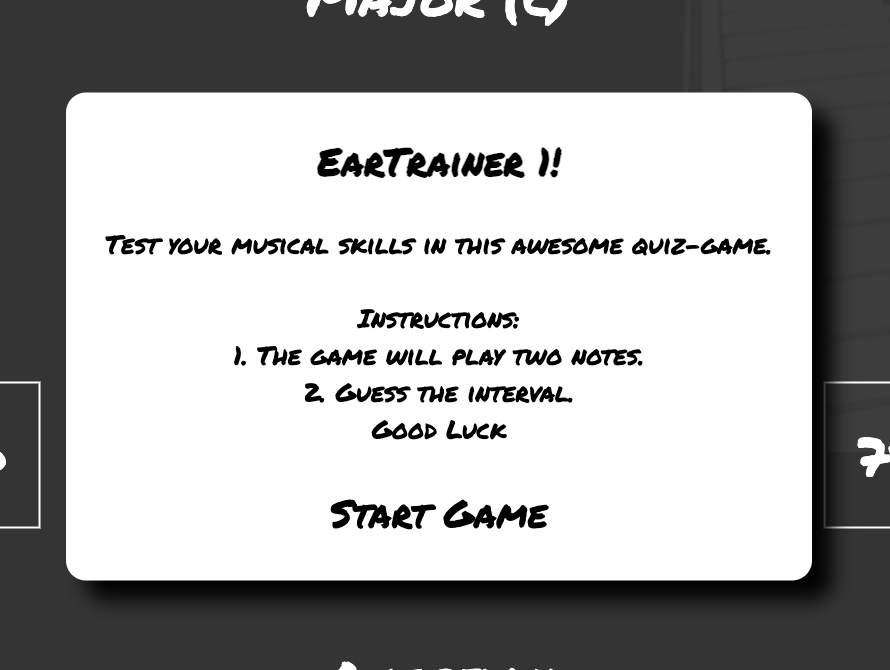
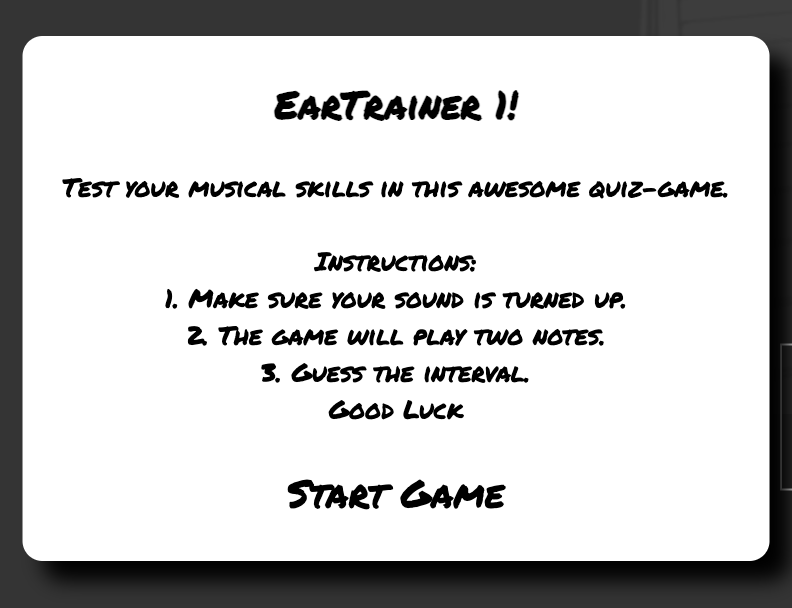
changed aria labels to aria description after readinig about usage and the w3c issued warnings

diff --git a/assets/js/script.js b/assets/js/script.js
@@ -56,8 +56,9 @@
      document.getElementById("modal-content").innerHTML = `<h2 aria-label="game name">EarTrainer 1!</h2><br>
       Test your musical skills in this awesome quiz-game.<br><br>
       Instructions:<br>
-      1. The game will play two notes.<br>
-      2. Guess the interval.<br>Good Luck<br><p>
+      1. Make sure your SOUND IS TURNED UP.<br>
+      2. The game will play two notes.<br>
+      3. Guess the interval.<br>Good Luck<br><p>
       <br><button aria-label="start game" id="start-game-button">Start Game</button>`;
      let start = document.getElementById("start-game-button");
      start.addEventListener("click", startGame);

diff --git a/assets/css/style.css b/assets/css/style.css
@@ -334,6 +334,11 @@ h2:hover {
   #game-canvas {
     max-width: 100%;
   }
+
+  #right-answers, #wrong-answers, #question-number{
+    font-size: 1rem;
+  }
+  
 }
 
 /* very Large Screens */

diff --git a/README.md b/README.md
@@ -2,6 +2,8 @@
 
 Ask any musician and they will tell you that hearing is the number one most important skill in a musicians, producers or singers toolbox. Without it you are doomed. That's why EarTrainer is your best friend and tutor. With this fun and simple quiz game your hearing will improve at a high pace giving you the skillset you need to pursuit your musical career.
 
+Oh, and it's also OK to play if you just want to play a fun game.
+
 Good luck!
 
 ![Responsive Mockup](assets/images/readmemedia/responsive.png)
@@ -16,19 +18,19 @@ Good luck!
 
 ## Features 
 
-- Welcome Modal
-- Main View
-- Anwer Feedback
-- Next Question
-- Score Summary
+- [Welcome Modal](#welcome-modal)
+- [Main View](#main-view)
+- [Anwer Feedback](#answer-feedback)
+- [Next Question](#next-question)
+- [Score Summary](#score-summary)
 
 ### Welcome modal
-The welcome modal provides the user with a greeting and instructions as well as a 'start game' button. By keeping the introduction short the player is quickly engaged in the game.
+The welcome modal provides the user with a greeting and instructions as well as a 'start game' button. By keeping the introduction positive and simple, the player is quickly launched into the game.
 
 ![Welcome](assets/images/readmemedia/welcome-modal.png)
 
-### main view
-When the 'Start Game' button is clicked the player will hear first one and then a second note and will be able to guess the interval by pressing one of the eight buttons convieniently placed within thumb-reach (if on a smartphone). On the top, just under the logo you can see the current scale as well as two notes who are animated so that one the first note is played, the left one is changing colors and when the second one is played, the right one will do the same.
+### Main view
+When the 'Start Game' button is clicked the player will first hear one and then a second note and will be prompted to guess the interval by pressing one of the eight buttons convieniently placed within thumb-reach (if on a smartphone). On the top, just under the logo you can see the current scale as well as two notes who are animated so that when the first note is played, the left one is changing colors and when the second one is played, the right one will do the same to indicate to the user that sound should be playing
 The number of correct and wrong answers as well as the current question number is also visible here.
 
 ![Main screen](assets/images/readmemedia/main-view.png)
@@ -38,17 +40,19 @@ When the player made a choice and pressed a button the feedback is instant to ma
 ![Right Answer Hearts](assets/images/readmemedia/hearts.png)
 ![wrong answers modal](assets/images/readmemedia/wrong-answer.png)
 
-### next Question
-After the feedback the next question comes automaticaly, again to make sure the engagement is up. The loop then continues until the 10th question is answered.
+### Next Question
+After the feedback the next question comes automaticaly, again to make sure the engagement isn't dropped. The loop then continues until the 10th question is answered.
 
-### score summary
-After the 10th question the player is showed their score in percent and a message based on their score and are prompted to try again.
+### Score summary
+After the 10th question the player is showed their score and a message based on their score and are prompted to try again.
 All they have to do is press the button and they are back to the welcome modal and can try again.
+
+There are several diffrent messages at the end of the game. Have you seen them all?
 
 ![Score Summary](assets/images/readmemedia/scoresummary.png)
 
 ### Future Features
-
+- Make answer alternatives light up after the first notes are played so to indicate that's where the buttons are. Just a nicie lookinig feature but not important.
 - Game Structure
   - 1st level note 3, 5 and seven of the major scale
   - 2nd level including all notes of the major scale
@@ -80,20 +84,17 @@ The game has now been tested on:
     - safari
     - edge
 
-### Tablets and Regular size laptop screens
-Game is centered 
+### responsive design
+The gamehas been designed using grids and flexboxes to ensure it translates well to any screen size. A few media querries have been added for the extremly large screens and also for small screens.
 
-### Smaller screens
+#### Large screens
+Background image removed because the resolution was not high enough.
 
+#### Small screens
+Slighty smaller font on result section
 
-
-Essentially, in this part you will want to go over all of your project’s features and ensure that they all work as intended, with the project providing an easy and straightforward way for the users to achieve their goals.
-
-In addition, you should mention in this section how your project looks and works on different browsers and screen sizes.
-
-You should also mention in this section any interesting bugs or problems you discovered during your testing, even if you haven't addressed them yet.
-
-If this section grows too long, you may want to split it off into a separate file and link to it from here.
+An interesting bug is that on one computer at one occasion the game never reset but just went on and on. 
+Other than that the game looks and acts as intended.
 
 
 ### Validator Testing 
